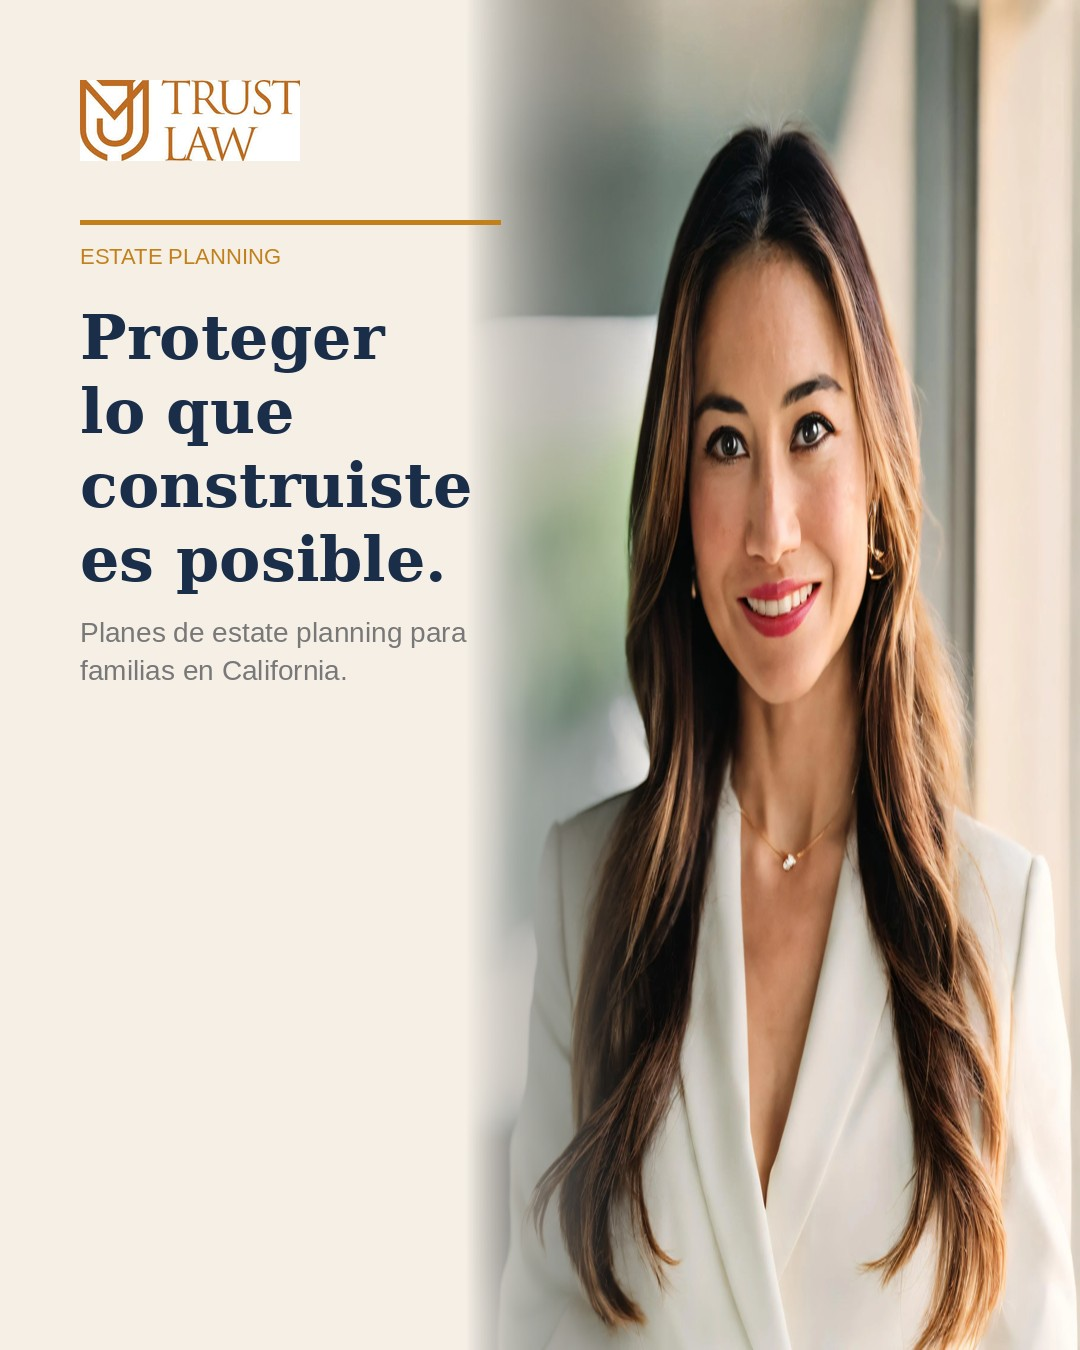
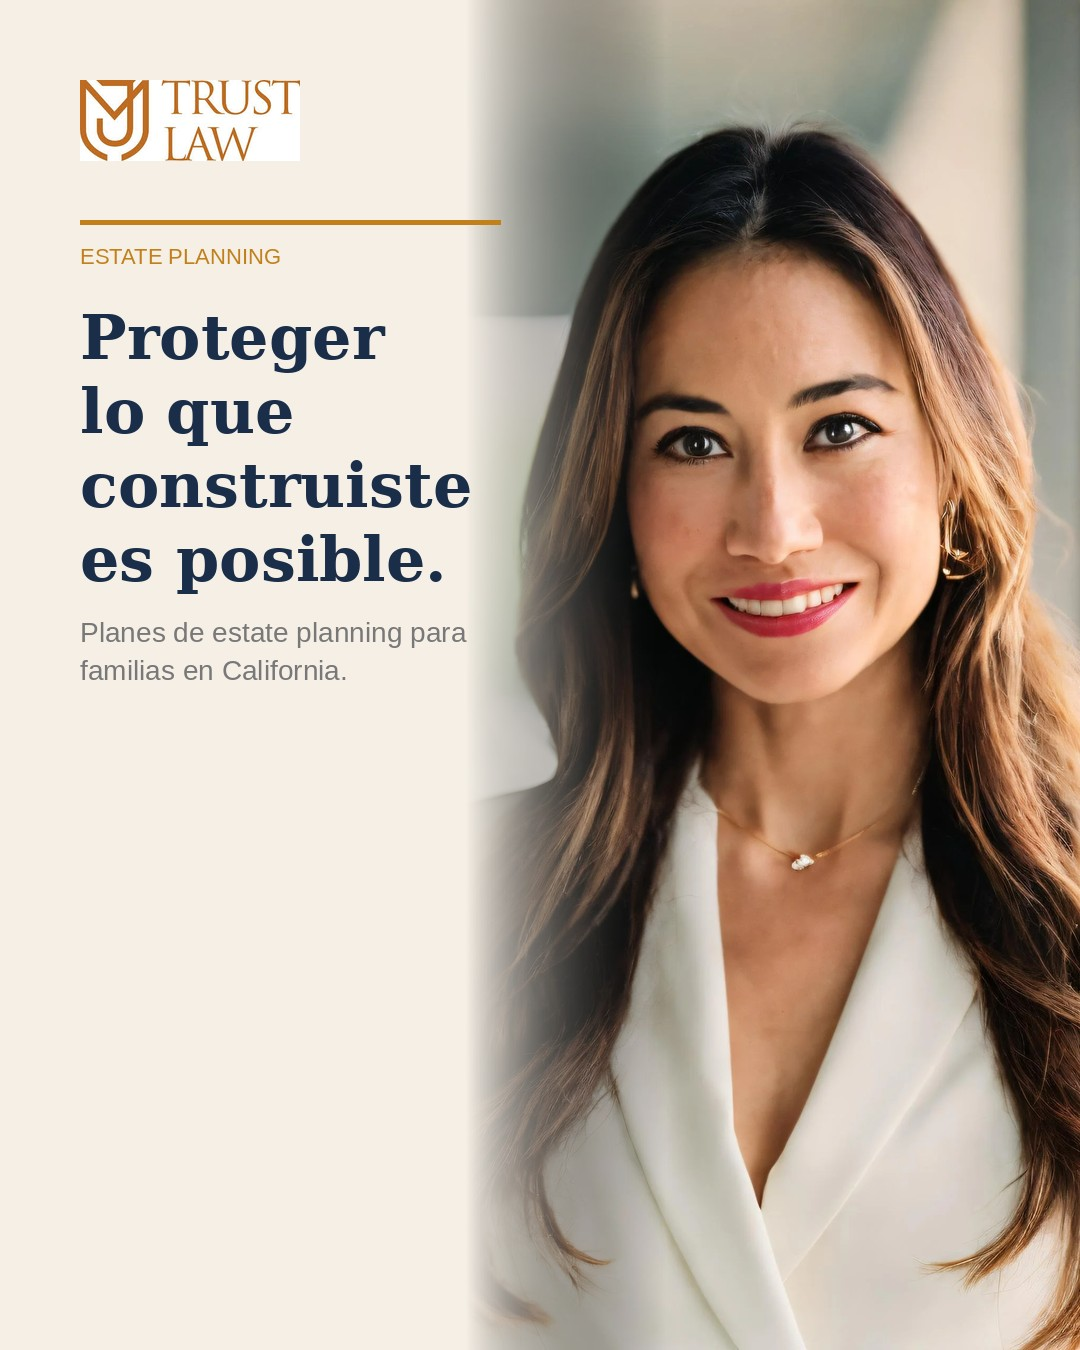
Fix photo cover crop in slide previews — no face distortion

diff --git a/preview_slides.py b/preview_slides.py
@@ -64,17 +64,21 @@ def slide1():
     img = Image.new("RGBA", (W, H), CREAM)
     draw = ImageDraw.Draw(img)
 
-    # Right panel: attorney photo
+    # Right panel: attorney photo — cover crop (no stretch)
     try:
         photo = load_img("10.webp")
         pw = int(W * 0.57)
-        ph_ratio = photo.size[1] / photo.size[0]
-        photo = photo.resize((pw, int(pw * ph_ratio)), Image.LANCZOS)
-        if photo.size[1] < H:
-            photo = photo.resize((pw, H), Image.LANCZOS)
-        # Crop to right 57%
+        orig_w, orig_h = photo.size
+        # Scale so photo COVERS the panel (pw x H) without distorting
+        scale = max(pw / orig_w, H / orig_h)
+        new_w = int(orig_w * scale)
+        new_h = int(orig_h * scale)
+        photo = photo.resize((new_w, new_h), Image.LANCZOS)
+        # Center crop to panel size, bias towards top (face)
+        cx = (new_w - pw) // 2
+        cy = 0  # anchor top so face stays visible
+        region = photo.crop((cx, cy, cx + pw, cy + H))
         x_off = W - pw
-        region = photo.crop((0, 0, pw, H))
         img.paste(region, (x_off, 0), region)
 
         # Feather gradient from cream to transparent on left edge of photo
@@ -403,12 +407,13 @@ def slide6():
     except:
         photo = Image.new("RGBA", (W, H), (40, 60, 80, 255))
 
-    pw, ph = photo.size
-    scale = max(W/pw, H/ph)
-    new_w, new_h = int(pw * scale), int(ph * scale)
+    orig_w, orig_h = photo.size
+    # Cover crop maintaining aspect ratio, anchor top for face
+    scale = max(W / orig_w, H / orig_h)
+    new_w, new_h = int(orig_w * scale), int(orig_h * scale)
     photo = photo.resize((new_w, new_h), Image.LANCZOS)
     x_off = (new_w - W) // 2
-    y_off = (new_h - H) // 2
+    y_off = 0  # top anchor keeps face in frame
     photo = photo.crop((x_off, y_off, x_off + W, y_off + H))
 
     img = photo.copy()
